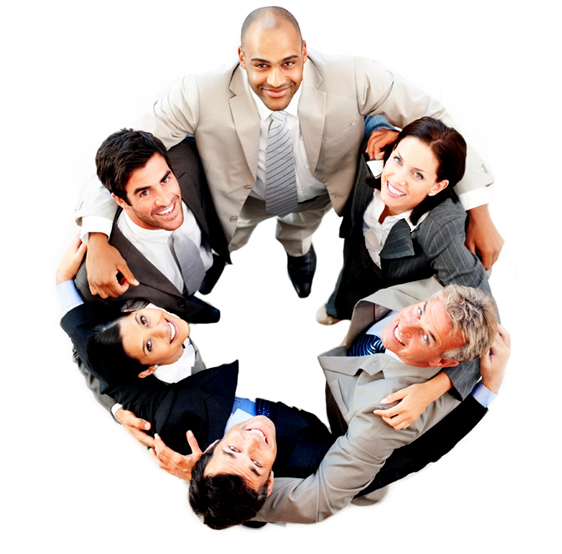
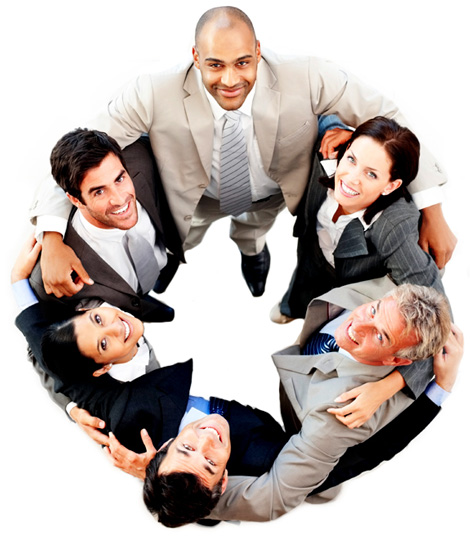
Former-commit-id: 087e915514fa6013c2bf6bc19651b3a9437ce33a

diff --git a/sources/easygenerator.Web/Content/account.css b/sources/easygenerator.Web/Content/account.css
@@ -179,8 +179,7 @@ body.try {
 
 .user-columns {
     display: table;
-    width: 900px;
-    margin: 0 auto;
+    width: 100%;
 }
 
 .view-module.sign-up .user-columns {
@@ -191,6 +190,12 @@ body.try {
 .user-column {
     display: table-cell;
 }
+
+    .user-column.form {
+        width: 50%;
+        padding-left: 12.5%;
+        padding-right: 3.5%;
+    }
 
 .user-form {
     position: relative;
@@ -505,7 +510,7 @@ body.try {
         }
 
 .user-column.image {
-    width: 56%;
+    width: 50%;
     padding-top: 3%;
     padding-left: 3.5%;
     vertical-align: middle;
@@ -518,7 +523,6 @@ body.try {
     width: 100%;
     max-width: 576px;
     height: auto;
-    margin-left: 85px;
 }
 
 /*#endregion User Columns*/
